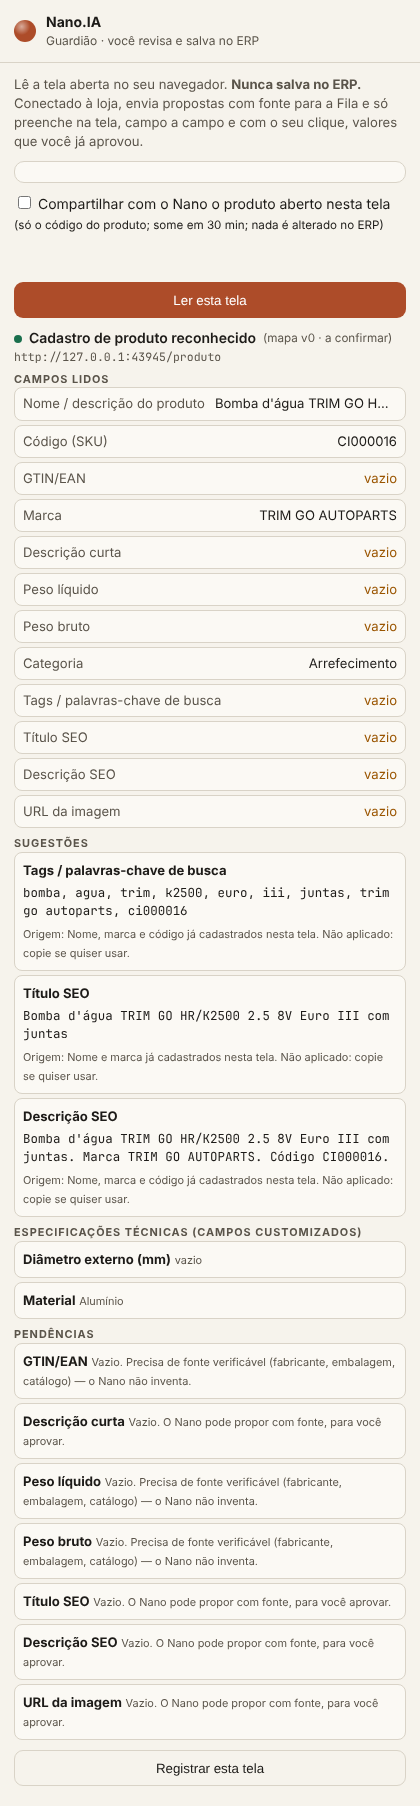
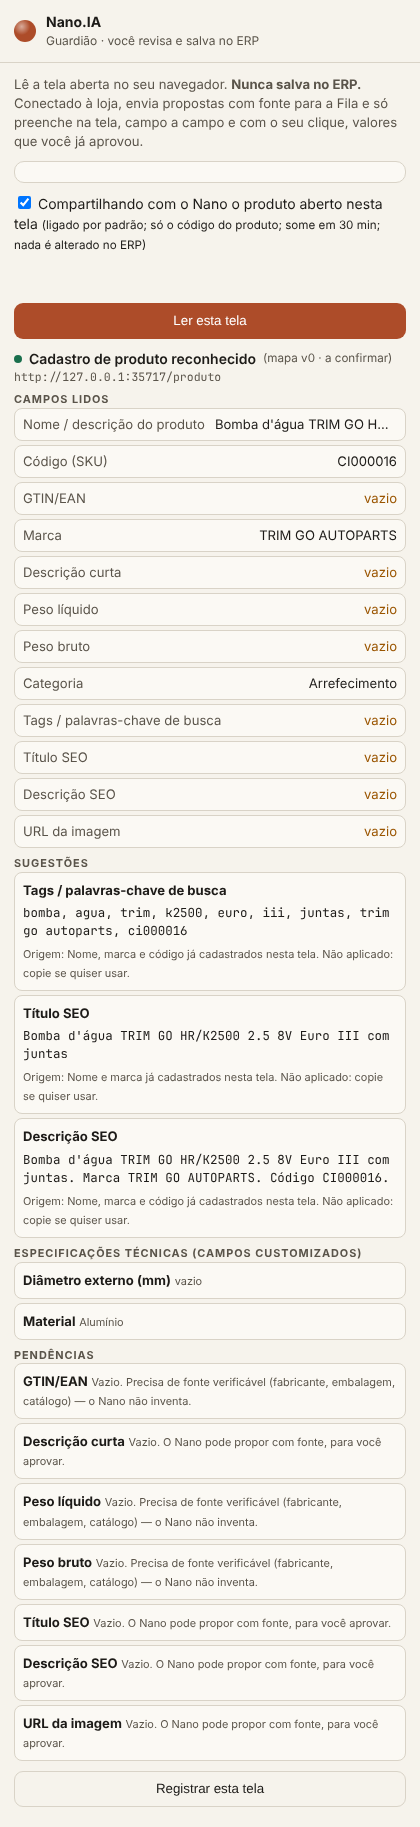
feat(contexto): compartilhamento nasce LIGADO e lembra a escolha (Catálogo e extensão do Bling)
Sistema de enriquecimento indexado: o Nano precisa saber o que o lojista seleciona/abre.
- Catálogo: ligado por padrão, preferência por loja em localStorage; não publica seleção vazia só por abrir a tela (preservaria o produto aberto pela extensão)
- Extensão: ligado por padrão, começa sozinho ao conectar à loja, preferência lembrada; desligar é respeitado nas próximas sessões
- visual-contexto atualizado (nasce ligado, sem loja não envia, desligar persiste)

Claude-Session: https://claude.ai/code/session_01YDBbauhHfrHxyjuFGGeXfk

Changed region(s): [[0.031, 0.031, 0.9905, 0.9922], [0.5262, 0.9612, 0.5571, 0.9922]]

diff --git a/extensao/src/painel.ts b/extensao/src/painel.ts
@@ -36,6 +36,11 @@ let ultima: { leitura: Leitura; r: Reconhecimento } | null = null;
 let pareando = false;
 let ctx: EstadoContexto = { sku: null, mensagem: "" };
 let ctxLigado = false;
+// Preferência do lojista (sistema de enriquecimento indexado: nasce LIGADA e lembra a escolha). Só tem efeito com a loja conectada.
+const CHAVE_CTX = "nano_ctx_compartilhar";
+const lerPreferenciaCtx = (): boolean => { try { return localStorage.getItem(CHAVE_CTX) !== "0"; } catch { return true; } };
+const gravarPreferenciaCtx = (v: boolean): void => { try { localStorage.setItem(CHAVE_CTX, v ? "1" : "0"); } catch { /* vale só nesta sessão */ } };
+let ctxPreferido = lerPreferenciaCtx();
 let ctxUltimoSku: string | null = null;
 let ctxTimer: ReturnType<typeof setInterval> | null = null;
 
@@ -66,14 +71,14 @@ async function conectar(): Promise<void> {
     pareando = false;
     if (s.estado === "resgatado") { conexao = { token: tokenCompleto(d.metade, d.sal), loja_id: s.loja_id, expira_em: s.sessao_expira_em }; await amb.guardar(conexao); }
     else $("erro").textContent = s.estado === "recusado" ? "Pareamento recusado no painel." : "O pedido expirou. Tente conectar de novo.";
-    mostrarConexao(); if (conexao && ultima) void compararEspelho(); return;
+    mostrarConexao(); if (conexao && ctxPreferido) ligarContexto(true); if (conexao && ultima) void compararEspelho(); return;
   }
   pareando = false; $("erro").textContent = "O pedido expirou. Tente conectar de novo."; mostrarConexao();
 }
 
 async function desconectar(): Promise<void> {
   if (conexao) await encerrarPareamento(conexao.token);
-  ligarContexto(false); ($("compartilhar-contexto") as HTMLInputElement).checked = false;
+  ligarContexto(false); // para de ler e limpa o contexto; a PREFERÊNCIA do lojista (ligado) continua
   conexao = null; await amb.guardar(null); $("espelho").innerHTML = ""; mostrarConexao(); if (ultima) mostrar(ultima.leitura);
 }
 
@@ -177,7 +182,7 @@ function formProposta(li: HTMLElement, canonico: string, inicial: { valor?: stri
 }
 
 // ---------------------------------------------------------------------------------------------- Contexto Vivo (produto aberto no ERP → Nano)
-function mostrarContexto(): void { $("ctx-status").textContent = ctxLigado ? (ctx.mensagem || "Compartilhamento ligado: aguardando um cadastro de produto na tela.") : ""; }
+function mostrarContexto(): void { $("ctx-status").textContent = ctxLigado ? (ctx.mensagem || "Compartilhamento ligado: aguardando um cadastro de produto na tela.") : ctxPreferido ? "Compartilhamento ligado: começa assim que você conectar à loja." : ""; }
 async function atualizarContexto(l: Leitura | { erro: string }): Promise<void> {
   if (!ctxLigado || !conexao) return;
   const atual = "erro" in l ? null : (() => { const r = reconhecer(l.campos, MAPA_PRODUTO_BLING); return r.estado === "reconhecida" ? skuUsavel(skuDaTela(r)) : null; })();
@@ -190,7 +195,7 @@ function ligarContexto(ligar: boolean): void {
   ctxLigado = ligar; ctx = { sku: null, mensagem: "" };
   if (ctxTimer) { clearInterval(ctxTimer); ctxTimer = null; }
   if (ligar) {
-    const ciclo = () => void amb.lerAbaSilenciosa().then(atualizarContexto).catch(() => { /* sem aba legível agora */ });
+    const ciclo = () => void Promise.resolve().then(() => amb.lerAbaSilenciosa()).then(atualizarContexto).catch(() => { /* sem aba legível agora (ou ambiente sem leitura silenciosa) */ });
     ciclo(); ctxTimer = setInterval(ciclo, 4000);
   } else if (conexao && ctxUltimoSku) { const sku = ctxUltimoSku; ctxUltimoSku = null; void comSessao((t) => chamarFerramenta(t, "conecta.set_active_product", { sku, acao: "fechado" })).catch(() => undefined); }
   mostrarContexto();
@@ -230,7 +235,10 @@ export async function iniciar(a: Ambiente): Promise<void> {
   if (conexao && Date.parse(conexao.expira_em) < Date.now()) { conexao = null; await amb.guardar(null); }
   mostrarConexao();
   $("ler").addEventListener("click", () => { $("erro").textContent = ""; void amb.lerAba().then((l) => { if ("erro" in l) $("erro").textContent = l.erro; else { mostrar(l); void atualizarContexto(l); } }).catch(() => { $("erro").textContent = "Não consegui ler esta página."; }); });
-  $("compartilhar-contexto").addEventListener("change", (e) => { const caixa = e.target as HTMLInputElement; if (caixa.checked && !conexao) { caixa.checked = false; $("erro").textContent = "Conecte à loja primeiro para compartilhar o produto aberto."; return; } ligarContexto(caixa.checked); });
+  const caixaCtx = $("compartilhar-contexto") as HTMLInputElement;
+  ctxPreferido = lerPreferenciaCtx(); caixaCtx.checked = ctxPreferido;
+  caixaCtx.addEventListener("change", () => { ctxPreferido = caixaCtx.checked; gravarPreferenciaCtx(ctxPreferido); if (conexao) ligarContexto(ctxPreferido); else mostrarContexto(); });
+  if (conexao && ctxPreferido) ligarContexto(true); else mostrarContexto();
   $("registrar").addEventListener("click", () => { if (ultima) amb.baixar(`nano-guardiao-tela-${Date.now()}.json`, JSON.stringify(estruturaParaRegistro(ultima.leitura, ultima.r), null, 2)); });
 }
 

diff --git a/painel/src/paginas/Catalogo.tsx b/painel/src/paginas/Catalogo.tsx
@@ -29,7 +29,12 @@ export function Catalogo({ loja }: { loja: Loja }) {
   const [ocupado, setOcupado] = useState<string | null>(null);
   const [selecionados, setSelecionados] = useState<Set<string>>(new Set());
   const [pausados, setPausados] = useState<Set<string>>(new Set());
-  const [compartilhar, setCompartilhar] = useState(false); // opt-in: só envia a seleção ao servidor se o lojista ligar
+  // Sistema de enriquecimento indexado: o Nano precisa saber o que o lojista seleciona, então o compartilhamento NASCE LIGADO e lembra a escolha (por loja).
+  // O interruptor continua visível: o lojista pode desligar, e a escolha dele é respeitada nas próximas sessões.
+  const chaveCompartilhar = `nano:contexto:compartilhar:${loja.id}`;
+  const [compartilhar, setCompartilharEstado] = useState(() => { try { return localStorage.getItem(chaveCompartilhar) !== "0"; } catch { return true; } });
+  const setCompartilhar = (v: boolean) => { setCompartilharEstado(v); try { localStorage.setItem(chaveCompartilhar, v ? "1" : "0"); } catch { /* sem armazenamento: vale só nesta sessão */ } };
+  const jaPublicou = useRef(false); // não publica "seleção vazia" só por abrir a tela: isso apagaria o produto aberto pela extensão no Bling
   const [avisoContexto, setAvisoContexto] = useState("");
   const [statusContexto, setStatusContexto] = useState(""); // confirmação REAL do servidor (versão gravada), nunca presumida
   const estadoContexto = useRef({ versao: 0 });
@@ -44,6 +49,8 @@ export function Catalogo({ loja }: { loja: Loja }) {
   const sequenciaConsulta = useRef(0);
   useEffect(() => {
     if (!compartilhar) return;
+    if (!jaPublicou.current && selecionados.size === 0) return;
+    jaPublicou.current = true;
     const t = window.setTimeout(() => {
       void publicarSelecao((a) => supabase.rpc("contexto_registrar", a) as unknown as Promise<{ data: unknown; error: unknown }>, loja.id, [...selecionados], estadoContexto.current)
         .then((r) => { setAvisoContexto(r.ok ? "" : `Não foi possível compartilhar a seleção com o Nano agora (${r.erro ?? "erro"}).`); setStatusContexto(r.ok ? (selecionados.size ? `Compartilhado com o Nano: ${selecionados.size} produto(s), versão ${estadoContexto.current.versao}.` : `Compartilhamento ligado; nenhuma seleção (versão ${estadoContexto.current.versao}).`) : ""); });
@@ -238,7 +245,7 @@ export function Catalogo({ loja }: { loja: Loja }) {
       <div className="catalogo-resultados" role="status">{itens === null ? "Consultando o espelho…" : `${visiveis.length} filtrado(s) entre ${itens.length} carregado(s)${totalBanco !== null ? ` · ${totalBanco.toLocaleString("pt-BR")} encontrado(s) na busca do servidor` : ""}`}{pesquisaPendente ? " · atualizando pesquisa…" : ""}</div>
       {erroConsulta && <div className="msg-erro" role="alert">{erroConsulta} <button type="button" className="sec" onClick={() => void carregar(0)}>Tentar novamente</button></div>}
       {msg && <p className={msg.ok ? "msg-ok" : "msg-erro"} role="status">{msg.texto}</p>}
-      <label className="linha marcar-linha"><input type="checkbox" checked={compartilhar} onChange={(e) => { setCompartilhar(e.target.checked); setAvisoContexto(""); setStatusContexto(""); }} /><span>Compartilhar a seleção com o Nano (30 min). Assim ele sabe qual produto você abriu, sem digitar o SKU. Só id do produto; nada é gravado no Bling.</span></label>
+      <label className="linha marcar-linha"><input type="checkbox" checked={compartilhar} onChange={(e) => { setCompartilhar(e.target.checked); setAvisoContexto(""); setStatusContexto(""); }} /><span>Compartilhando a seleção com o Nano (ligado por padrão; some em 30 min). Assim ele sabe qual produto você selecionou, sem digitar o SKU. Só id do produto; nada é gravado no Bling.</span></label>
       {avisoContexto && <p className="msg-erro" role="alert">{avisoContexto}</p>}
       {compartilhar && !avisoContexto && statusContexto && <p className="msg-ok" role="status">{statusContexto}</p>}
       {selecionados.size > 0 && (

diff --git a/extensao/painel.html b/extensao/painel.html
@@ -14,7 +14,7 @@
   <main>
     <p class="aviso">Lê a tela aberta no seu navegador. <b>Nunca salva no ERP.</b> Conectado à loja, envia propostas com fonte para a Fila e só preenche na tela, campo a campo e com o seu clique, valores que você já aprovou.</p>
     <section id="loja" class="bloco-loja" aria-live="polite"></section>
-    <label class="linha-ctx"><input id="compartilhar-contexto" type="checkbox" /> Compartilhar com o Nano o produto aberto nesta tela <small>(só o código do produto; some em 30 min; nada é alterado no ERP)</small></label>
+    <label class="linha-ctx"><input id="compartilhar-contexto" type="checkbox" checked /> Compartilhando com o Nano o produto aberto nesta tela <small>(ligado por padrão; só o código do produto; some em 30 min; nada é alterado no ERP)</small></label>
     <p id="ctx-status" class="suave" role="status" aria-live="polite"></p>
     <button id="ler" type="button">Ler esta tela</button>
     <p id="erro" class="erro" role="alert"></p>

diff --git a/docs/conector-ia/HOMOLOGACAO_CONTEXTO_VIVO.md b/docs/conector-ia/HOMOLOGACAO_CONTEXTO_VIVO.md
@@ -9,11 +9,11 @@ Estado em 2026-11-03 (verificado em produção, somente leitura): `contexto_sess
 4. Uma chave MCP de leitura criada no painel e guardada só no cliente do agente (nunca no chat).
 
 ## Teste real (leva ~5 minutos; nada é gravado no Bling)
-5. No painel, em Catálogo, ligar "Compartilhar a seleção com o Nano" e selecionar **2 produtos** (ex.: OC1224 e 80692).
+5. No painel, em Catálogo, conferir que "Compartilhando a seleção com o Nano" está marcado (**nasce ligado** e lembra a sua escolha por loja) e selecionar **2 produtos** (ex.: OC1224 e 80692). Na extensão do Bling também nasce ligado e começa sozinho ao conectar à loja.
 6. No chat do Nano (e depois no agente externo por MCP), perguntar: "quais produtos estão selecionados?" sem citar SKU.
    - **Passa** se responde os 2 SKUs corretos, com nome e marca, sem custo/fornecedor/fiscal.
 7. Abrir 1 produto (selecionar só ele): perguntar "qual é o produto ativo?" → deve trocar para o único selecionado.
-8. Desligar o compartilhamento (ou esperar 30 min): perguntar de novo → deve responder **contexto indisponível**, sem inventar SKU.
+8. Desligar o compartilhamento (a escolha fica lembrada) ou esperar 30 min: perguntar de novo → deve responder **contexto indisponível**, sem inventar SKU.
 9. Isolamento: com outro usuário (outra loja), repetir a pergunta → nunca enxerga a seleção da primeira loja.
 
 ## Já provado em teste automatizado (Postgres local com todas as migrações)
